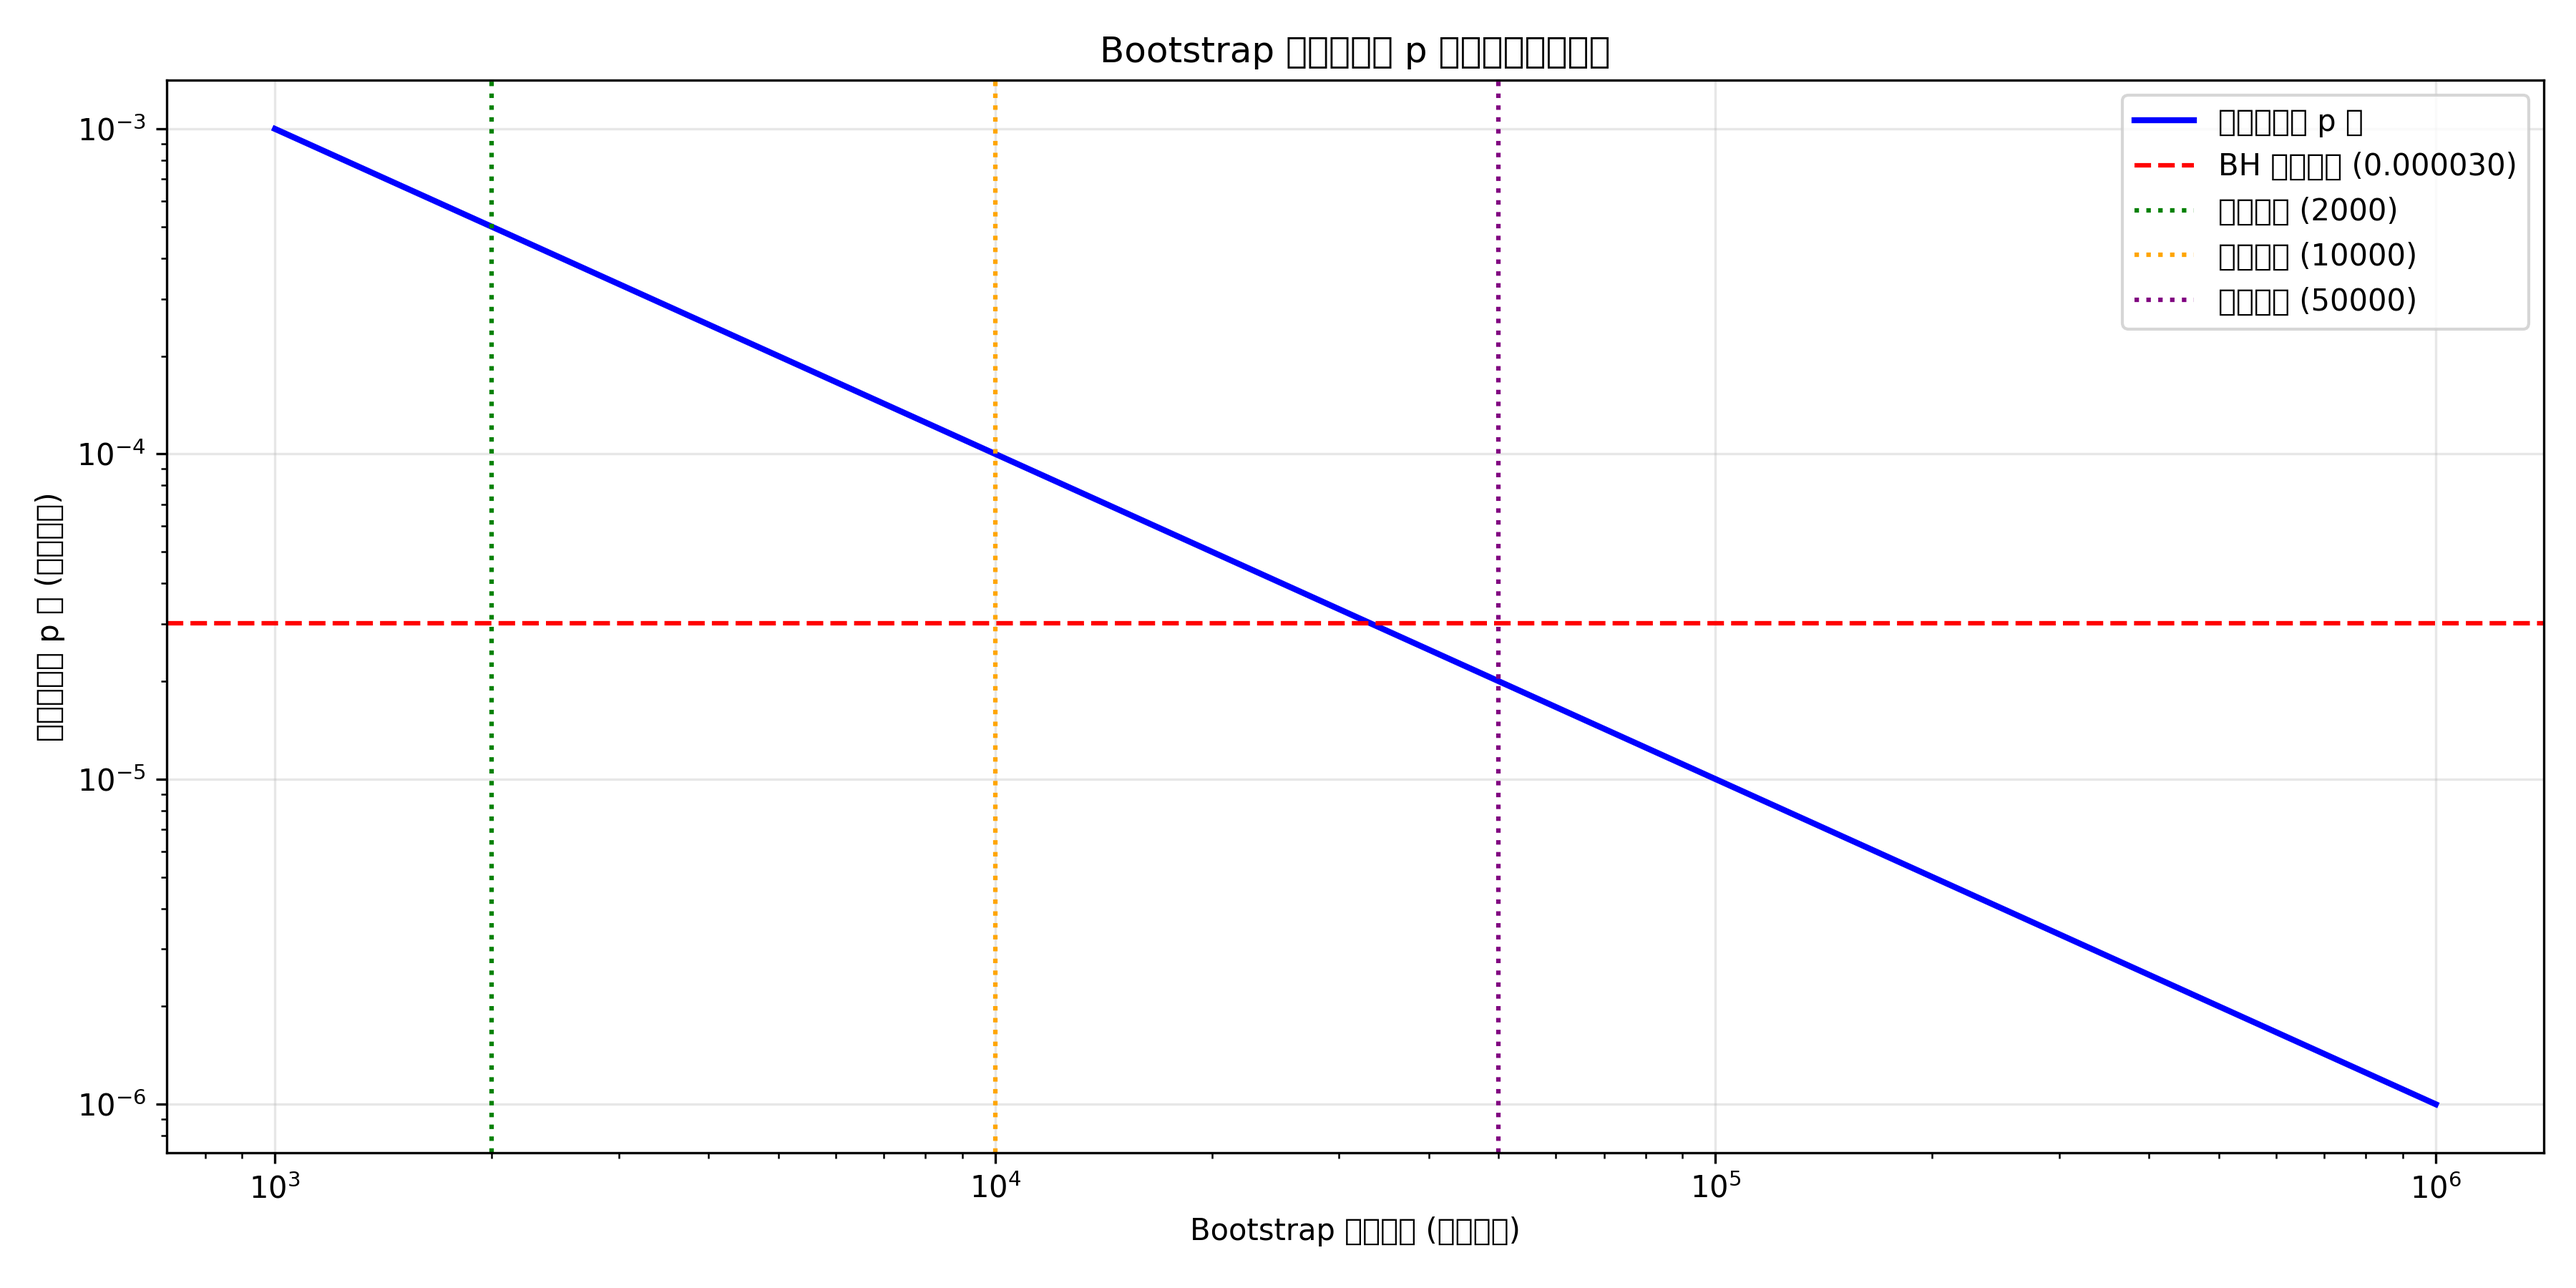
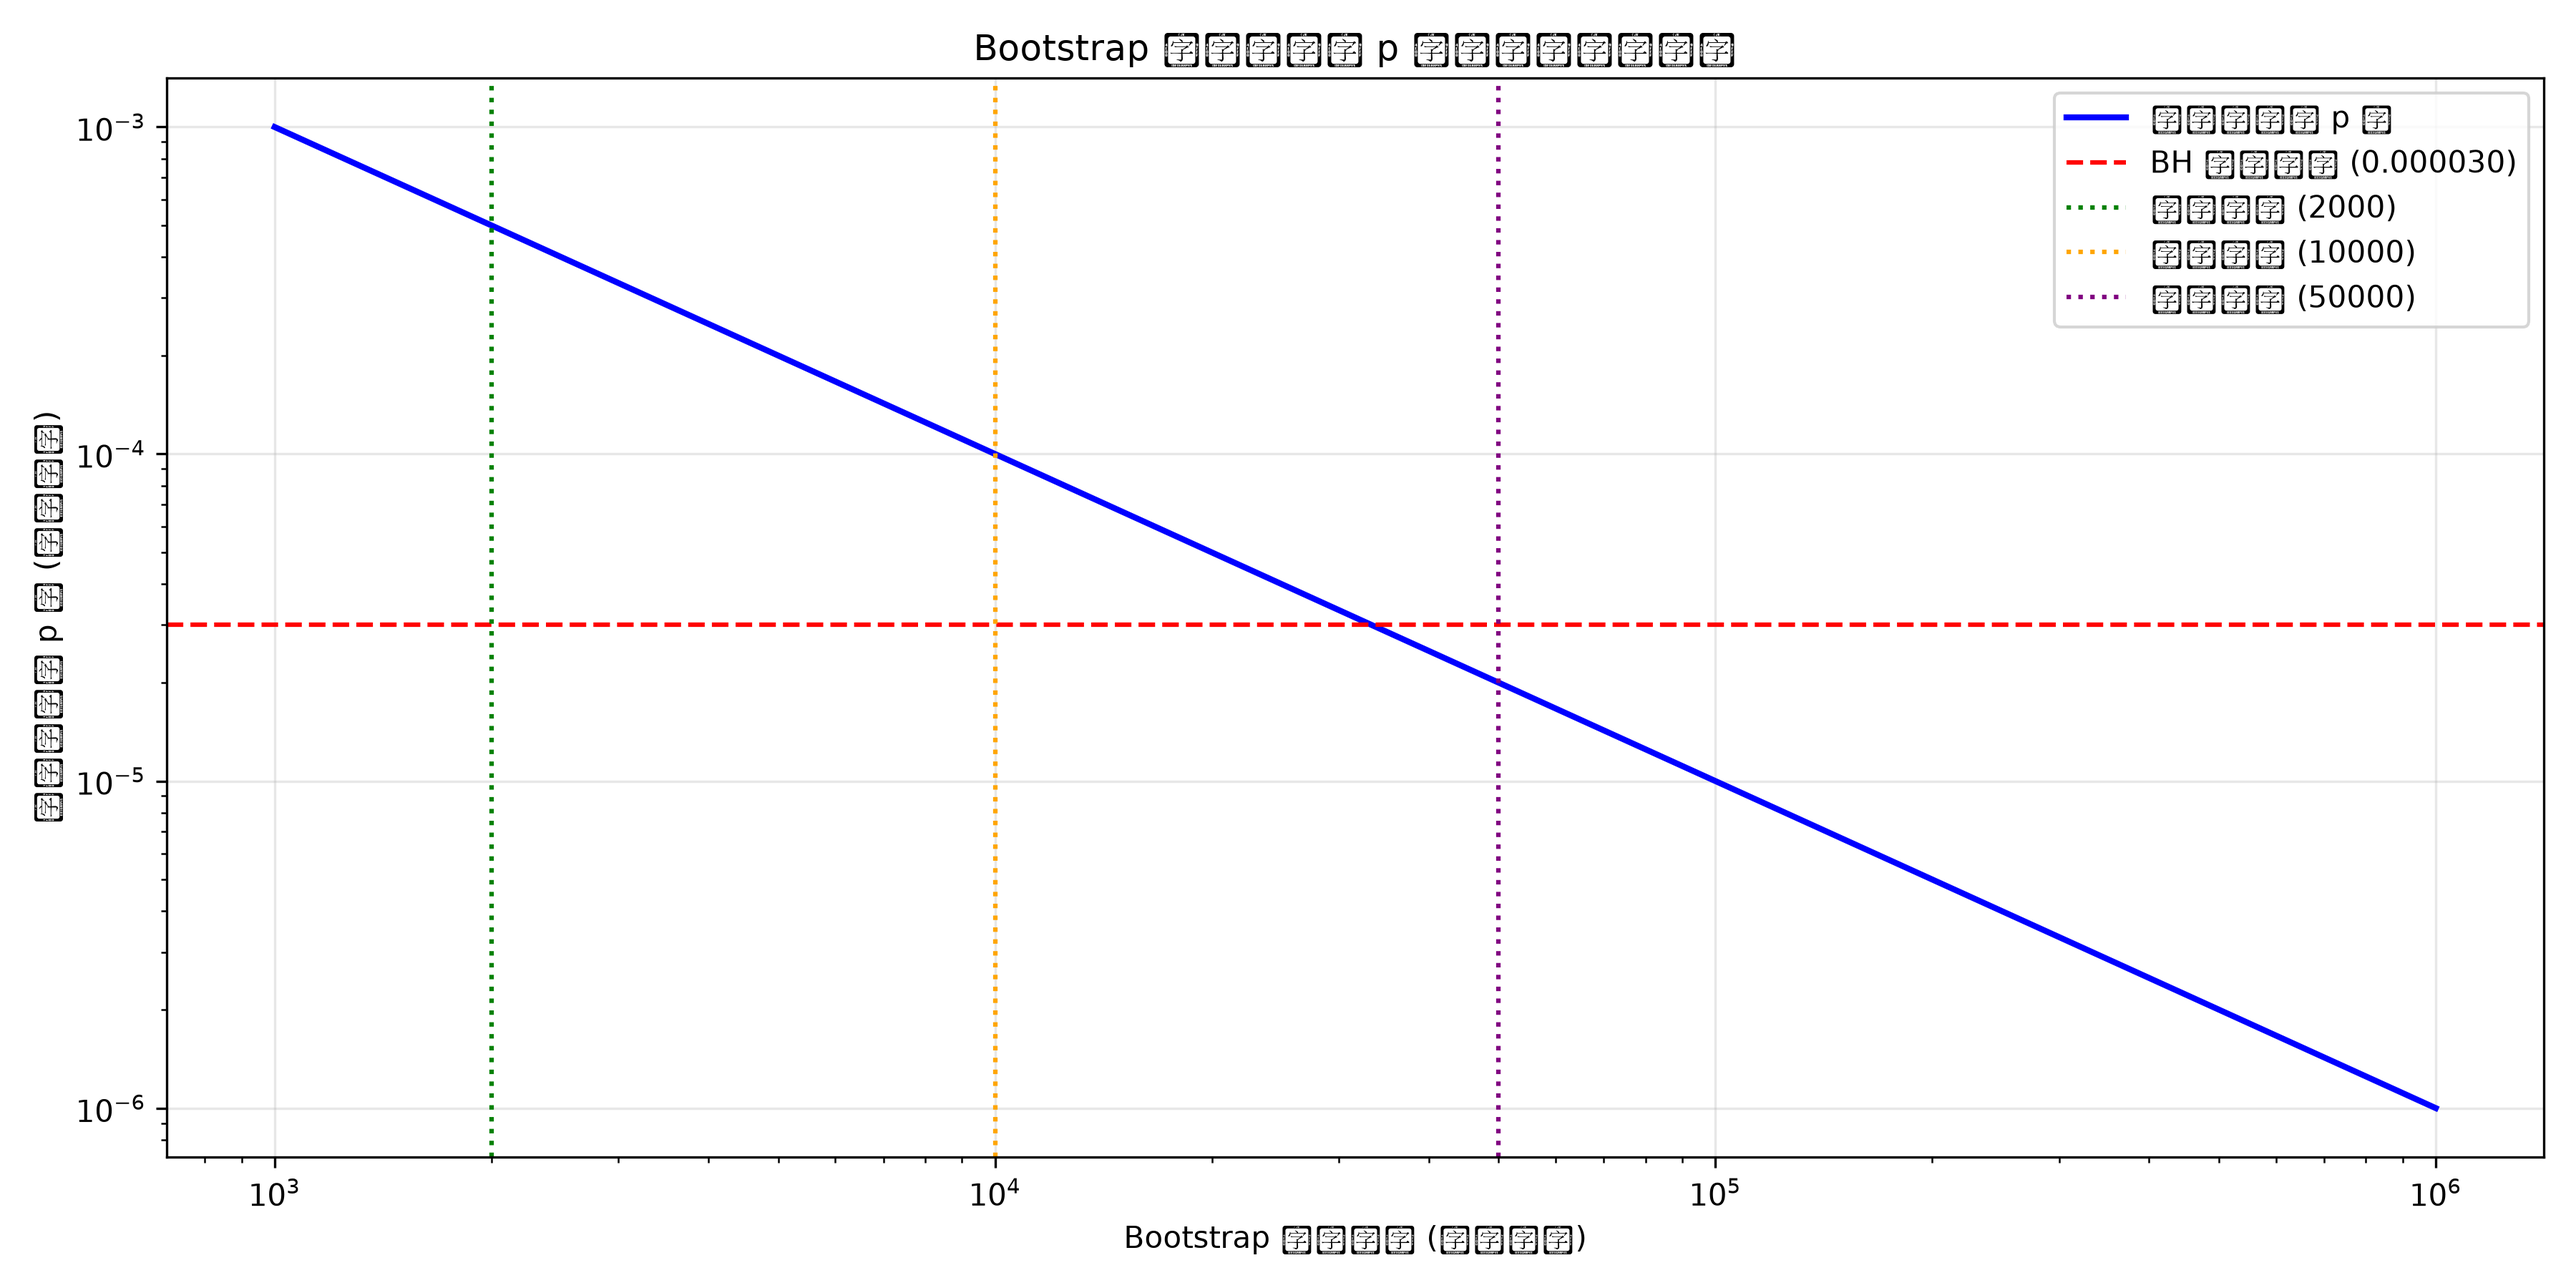
Refresh interaction summaries for updated serde data

diff --git a/datas/interaction_stats/summarize_interactions.py b/datas/interaction_stats/summarize_interactions.py
@@ -10,9 +10,9 @@ OUTPUT_DIR = ROOT / "datas" / "interaction_stats"
 OUTPUT_CSV = OUTPUT_DIR / "interaction_summary.csv"
 OUTPUT_CSV_ZH = OUTPUT_DIR / "interaction_summary_zh.csv"
 PREFERRED_RESULT_PATHS = {
-    # This analysis directory is generated from:
-    # d:\MIR_LLVM_NEW\serde\results_expanded\20260620_123353
-    "serde": ROOT / "serde" / "analysis_new" / "did" / "interaction_results.csv",
+    # This analysis directory is generated from the current updated serde run:
+    # d:\MIR_LLVM_NEW\serde\results\20260702_155545
+    "serde": ROOT / "serde" / "results" / "20260702_155545" / "analysis_new" / "did" / "interaction_results.csv",
     # This analysis directory is generated from:
     # d:\MIR_LLVM_NEW\fast_image_resize\results
     "fast_image_resize": ROOT / "fast_image_resize" / "analysis" / "did" / "interaction_results.csv",
